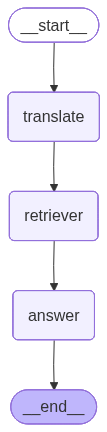
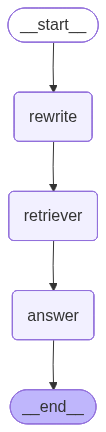
fixed some bugs

diff --git a/agent_graph.py b/agent_graph.py
@@ -190,12 +190,12 @@ def ans_node(
 builder = StateGraph(
     Overall_State,
 )
-builder.add_node("translate", rewrite_node)
+builder.add_node("rewrite", rewrite_node)
 builder.add_node("retriever", retr_node)
 builder.add_node("answer", ans_node)
 
-builder.add_edge(START, "translate")
-builder.add_edge("translate", "retriever")
+builder.add_edge(START, "rewrite")
+builder.add_edge("rewrite", "retriever")
 builder.add_edge("retriever", "answer")
 builder.add_edge("answer", END)
 

diff --git a/rag.py b/rag.py
@@ -63,7 +63,10 @@ def load_retriever(
     # BM25
     doc = load_doc()
     split_doc = split_docs(
-        doc = doc
+        doc = doc,
+        separators = ragconfig.splitter.separators,
+        chunk_size = ragconfig.splitter.chunk_size,
+        overlap = ragconfig.splitter.overlap
     )
     bm_retr = BM25Retriever.from_documents(split_doc)
     bm_retr.k = ragconfig.bm25.k
